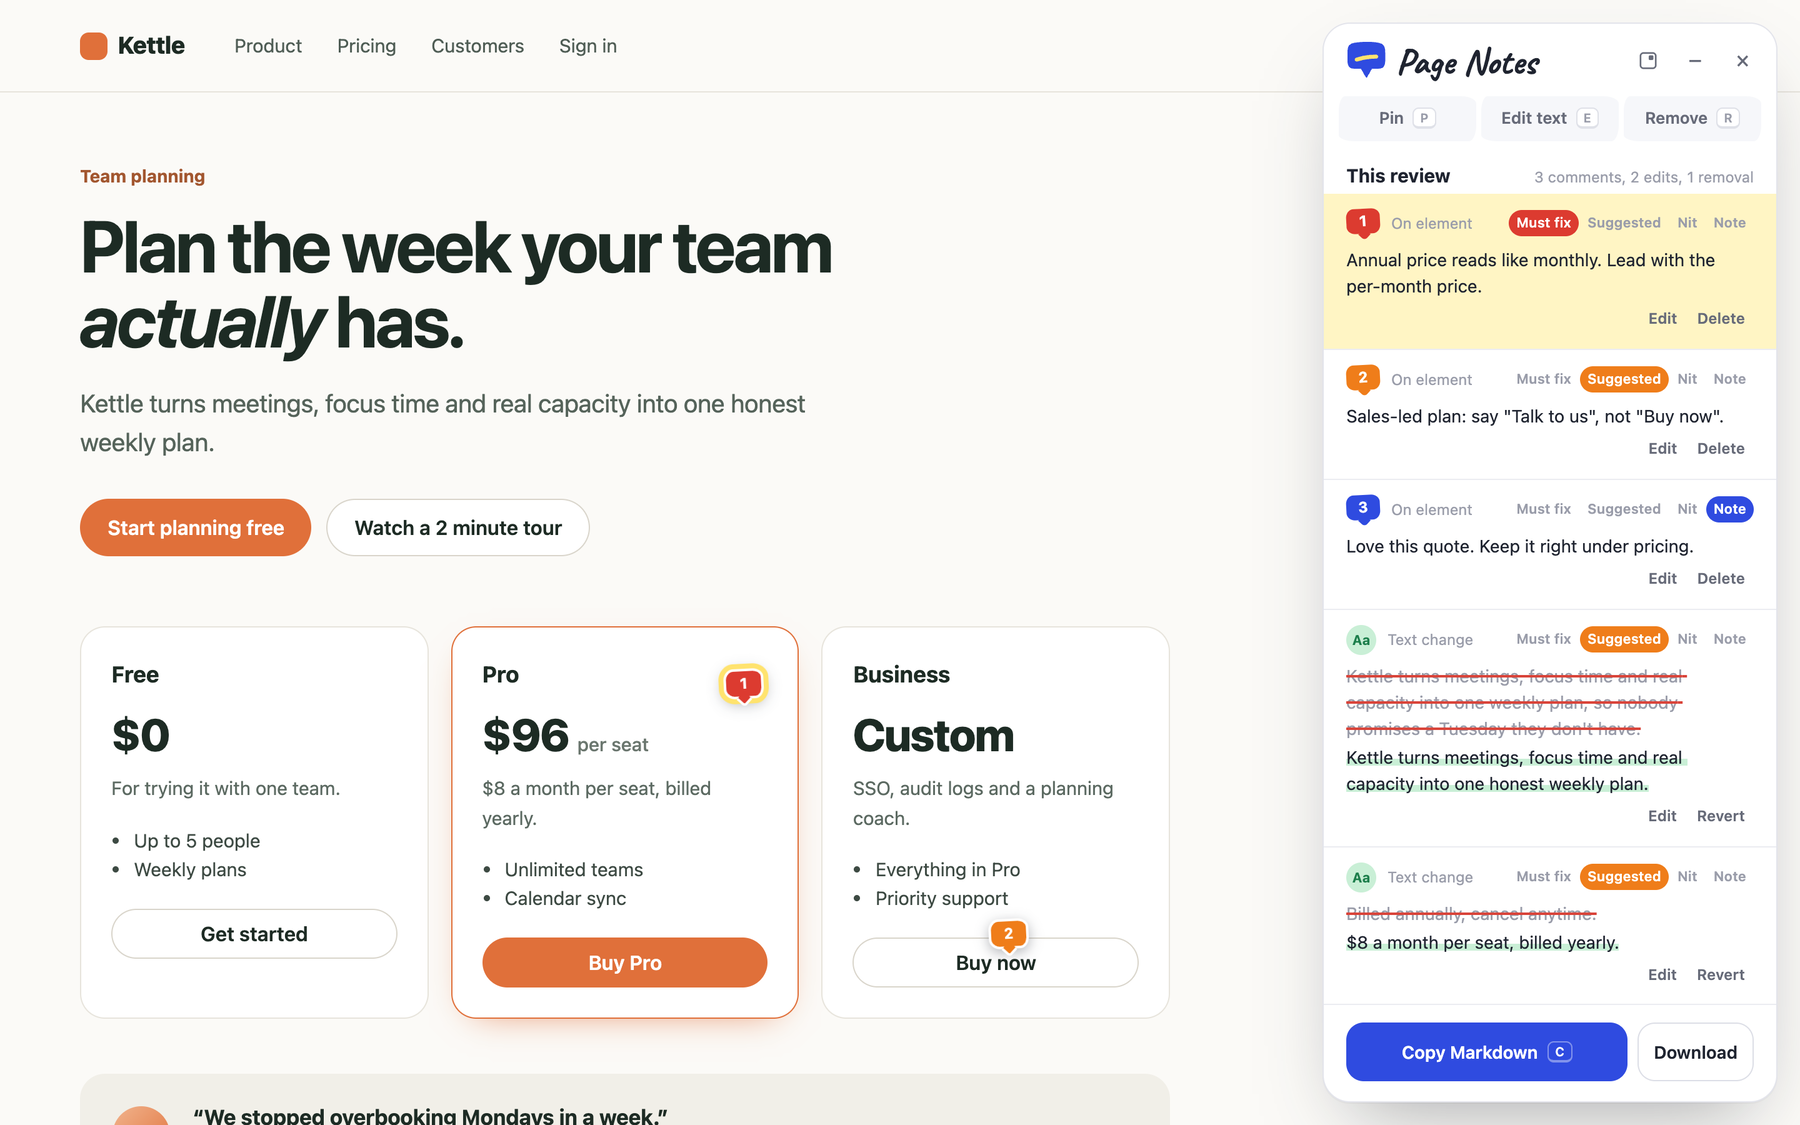
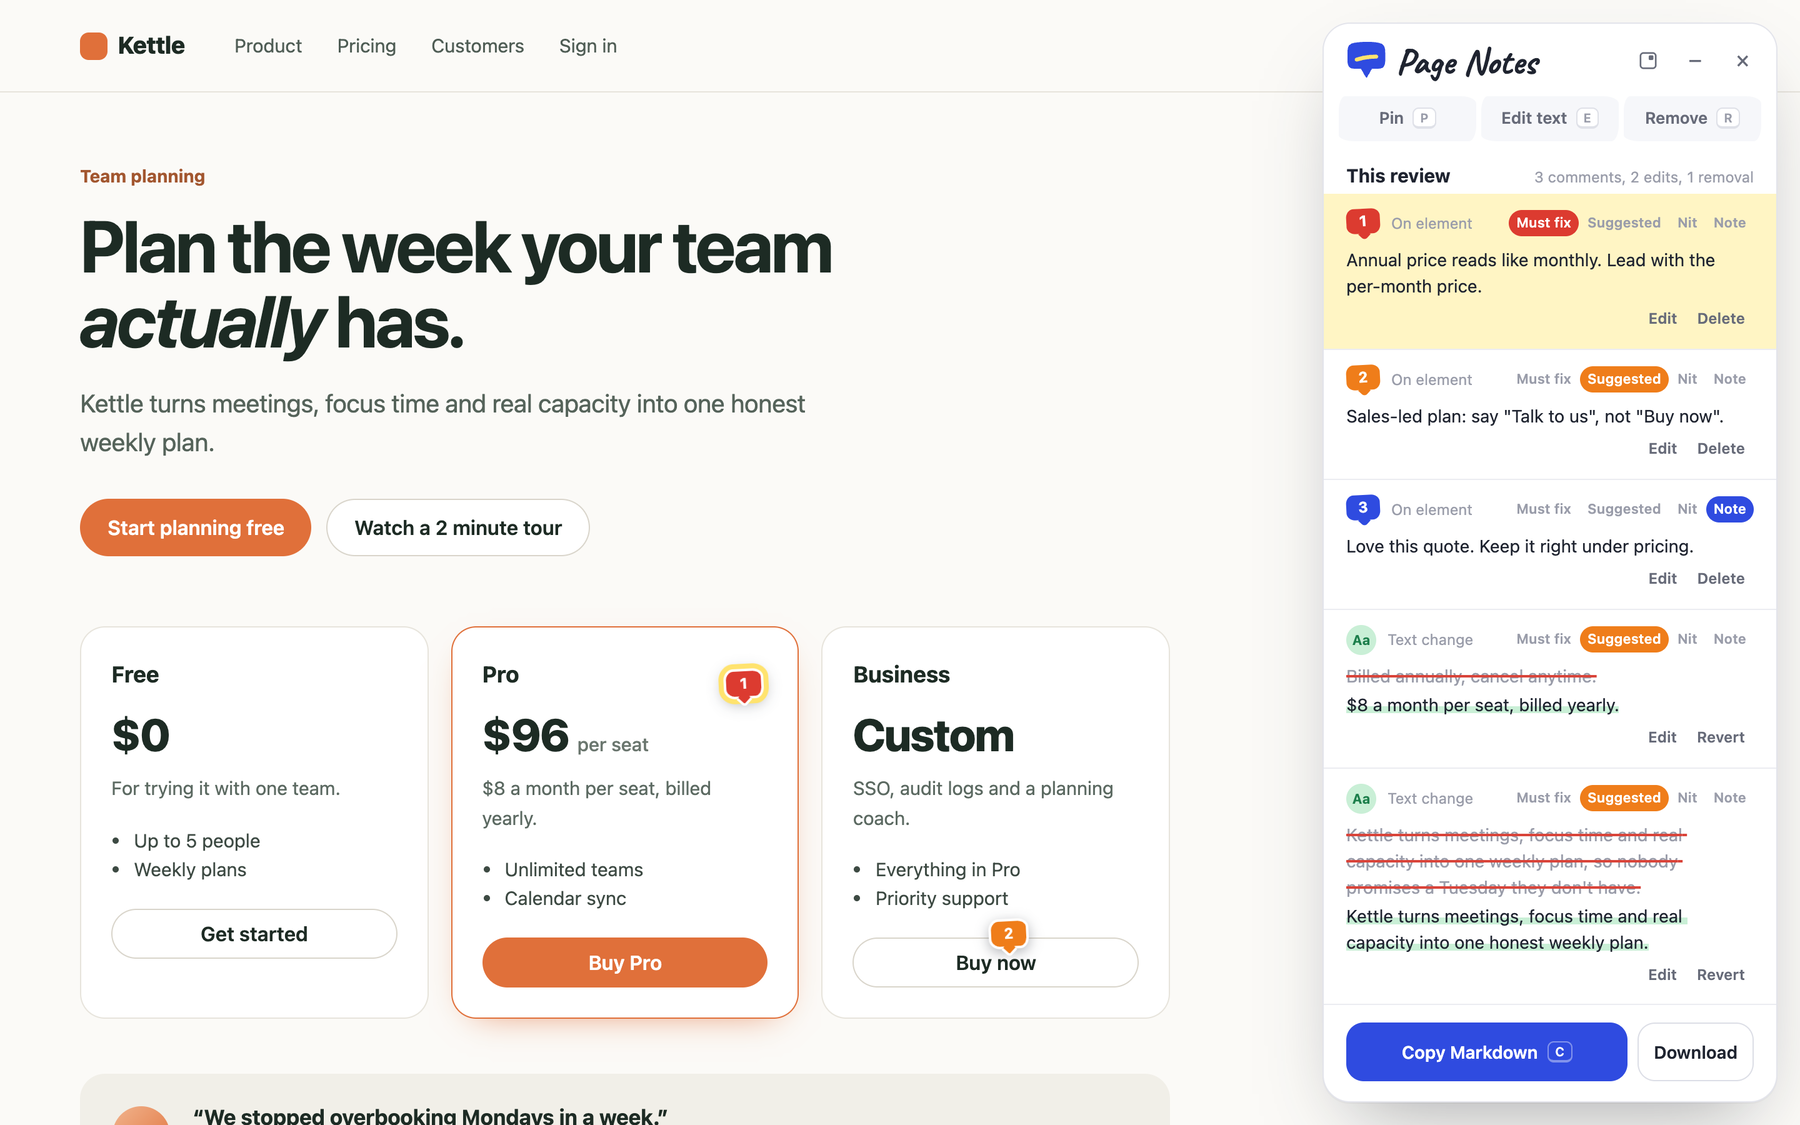
Landing page sample: show items 1 and 2 in order, note the rest

Changed region(s): [[0.7467, 0.5911, 0.9644, 0.8711]]

diff --git a/site/index.html b/site/index.html
@@ -189,9 +189,11 @@
 - Text: <span class="c">`$96 per seat`</span>
 - Locator: <span class="c">`div[data-testid="plan-pro"] > div`</span>
 
-<span class="h">### 3. Text edit · suggested</span>
+<span class="h">### 2. Text edit · suggested</span>
 - Original: <span class="c">`Billed annually, cancel anytime.`</span>
-- Replace: <span class="c">`$8 a month per seat, billed yearly.`</span></pre>
+- Replace: <span class="c">`$8 a month per seat, billed yearly.`</span>
+
+…4 more items</pre>
         </article>
         <article class="card s2">
           <div class="art"><img src="assets/tools.png" alt="The Pin, Edit text and Remove tools, with Pin active and showing Esc." loading="lazy"></div>

diff --git a/site/assets/sample-review.md b/site/assets/sample-review.md
@@ -1,8 +1,8 @@
 # Review: Kettle: plan the week your team actually has
 
 - Page: https://kettle.example/pricing
-- Review: r-20261025-e313 · Page Notes 0.2.0 · digest v1
-- Started: 2026-10-25T12:46:39-04:00 · Exported: 2026-10-25T12:46:43-04:00 (0 min)
+- Review: r-20261025-e320 · Page Notes 0.2.0 · digest v1
+- Started: 2026-10-25T12:55:01-04:00 · Exported: 2026-10-25T12:55:04-04:00 (0 min)
 - Environment: Chromium 141 · macOS · 1440×900 @2x · light
 - Summary: 3 comments, 2 text edits, 1 removal
 - Severity: 1 must fix, 4 suggested, 0 nits, 1 note
@@ -28,6 +28,15 @@
 - Pin: on the element, 92% across and 15% down
 
 ### 2. Text edit · suggested
+- Original: `Billed annually, cancel anytime.`
+- Replace: `$8 a month per seat, billed yearly.`
+- Section: main › Plan the week your team actually has. › Pro
+- Context: …it with one team. Up to 5 people Weekly plans Get started Pro $96 per seat **Billed annually, cancel anytime.** Unlimited teams Calendar sync Buy Pro Business Custom SSO, audit logs and a…
+- Locator: `div[data-testid="plan-pro"] > p` · role: paragraph
+- Ancestors: `main` › `section[aria-label="Plans"]` › `div[data-testid="plan-pro"]`
+- Excerpt: `<p>Billed annually, cancel anytime.</p>`
+
+### 3. Text edit · suggested
 - Original: `Kettle turns meetings, focus time and real capacity into one weekly plan, so nobody promises a Tuesday they don't have.`
 - Replace: `Kettle turns meetings, focus time and real capacity into one honest weekly plan.`
 - Section: main › Plan the week your team actually has.
@@ -36,15 +45,6 @@
 - Ancestors: `main`
 - Classes: `lede`
 - Excerpt: `<p class="lede">Kettle turns meetings, focus time and real capacity into on…</p>`
-
-### 3. Text edit · suggested
-- Original: `Billed annually, cancel anytime.`
-- Replace: `$8 a month per seat, billed yearly.`
-- Section: main › Plan the week your team actually has. › Pro
-- Context: …it with one team. Up to 5 people Weekly plans Get started Pro $96 per seat **Billed annually, cancel anytime.** Unlimited teams Calendar sync Buy Pro Business Custom SSO, audit logs and a…
-- Locator: `div[data-testid="plan-pro"] > p` · role: paragraph
-- Ancestors: `main` › `section[aria-label="Plans"]` › `div[data-testid="plan-pro"]`
-- Excerpt: `<p>Billed annually, cancel anytime.</p>`
 
 ### 4. Comment · pin 2 · suggested
 - Note: Sales-led plan: say "Talk to us", not "Buy now".
